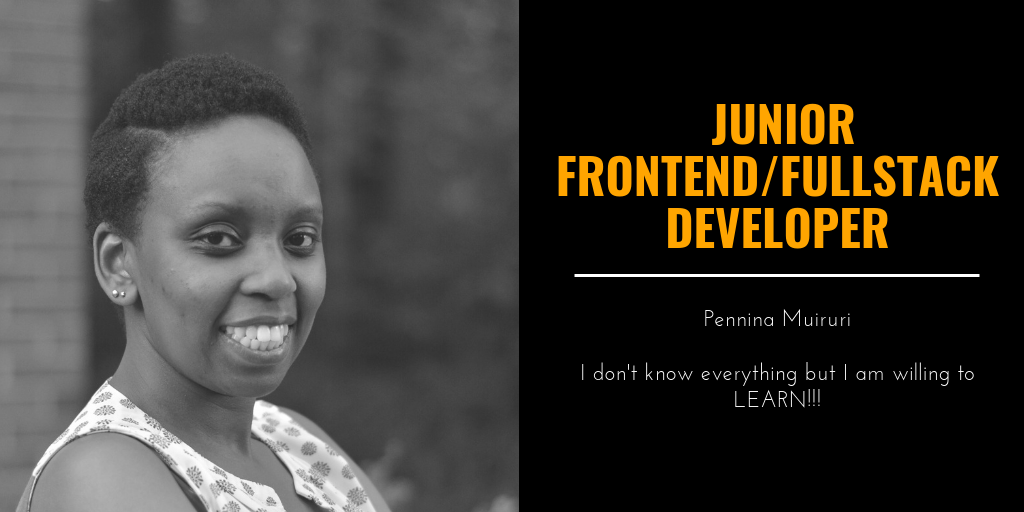
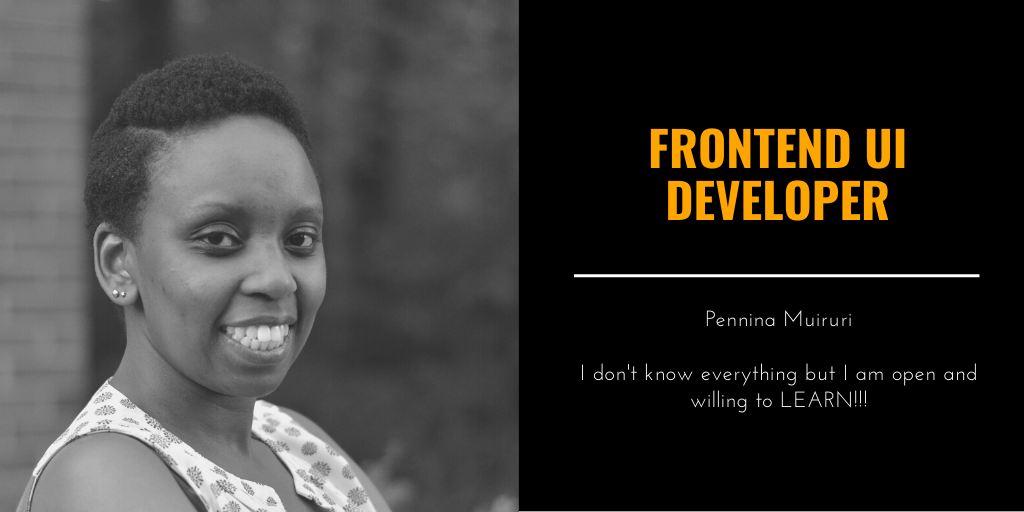
updated img

diff --git a/style.css b/style.css
@@ -86,7 +86,7 @@ header a:hover{
 	right: 0;
 	width: 100%;
 	height: 480px;
-	background-image: url("./images/header3.png");
+	background-image: url("./images/Fullstack\ \(2\).png");
 	background-repeat: no-repeat;
 	background-size: cover;
 }
